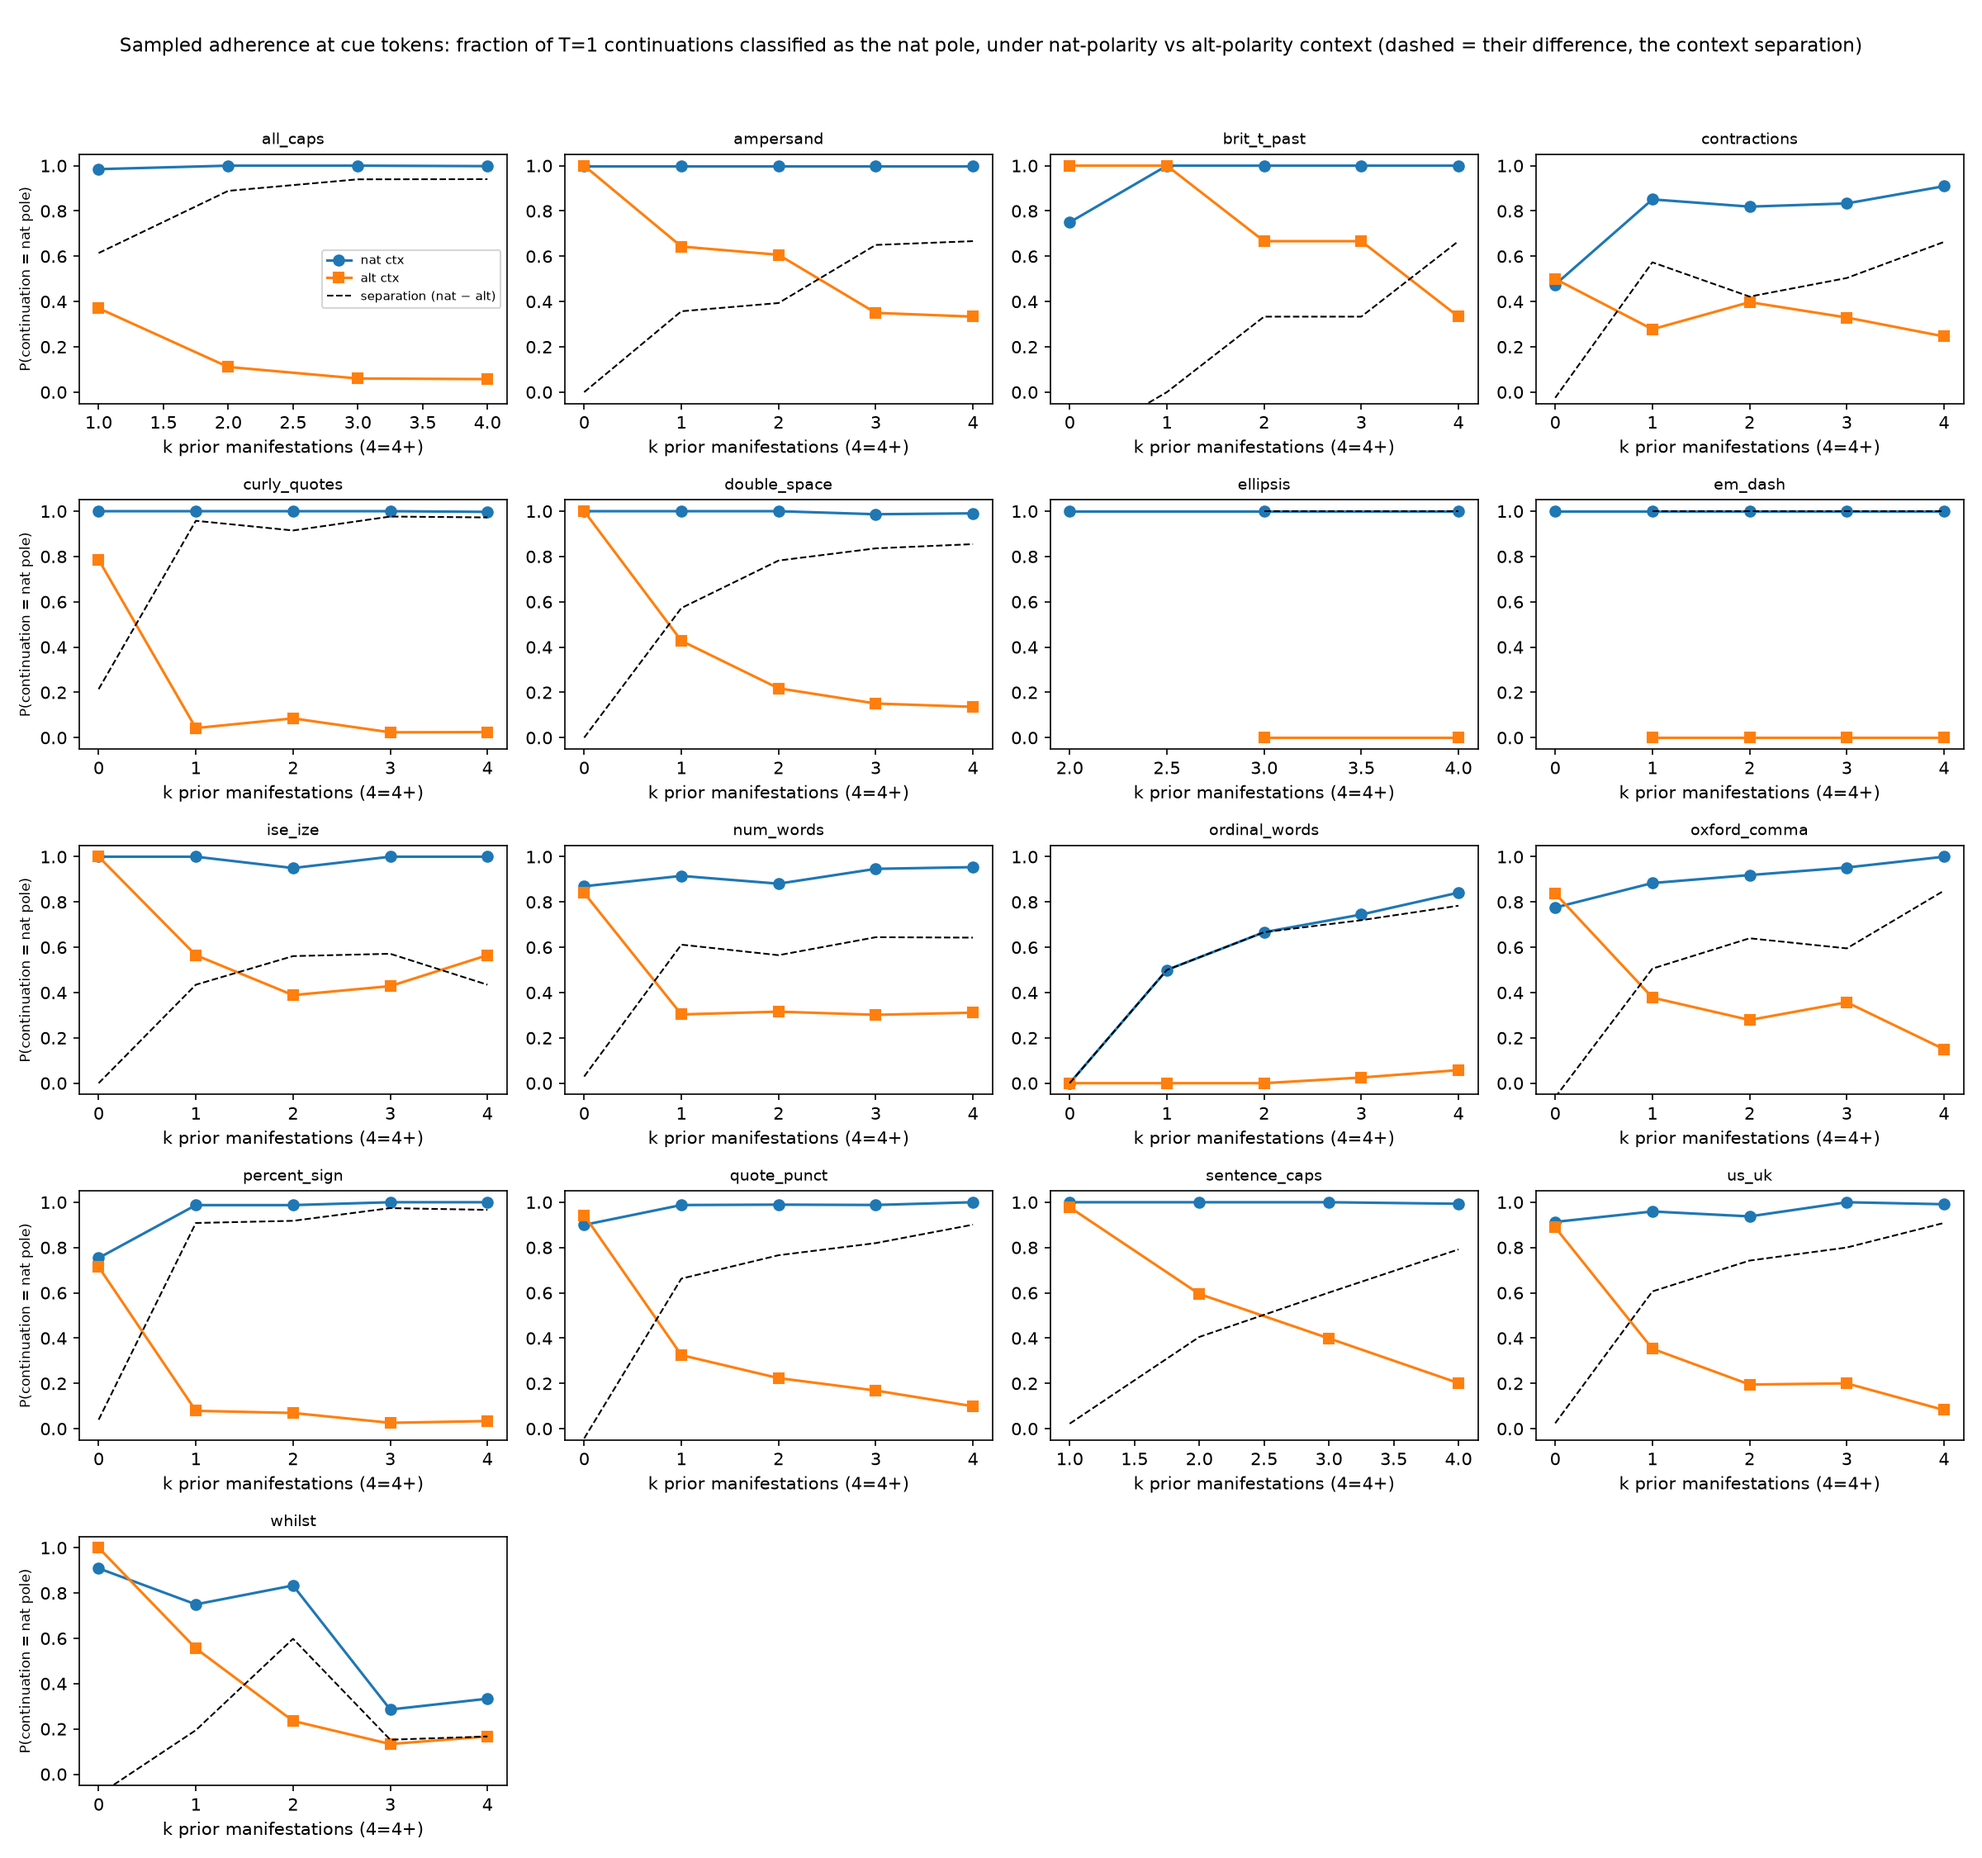
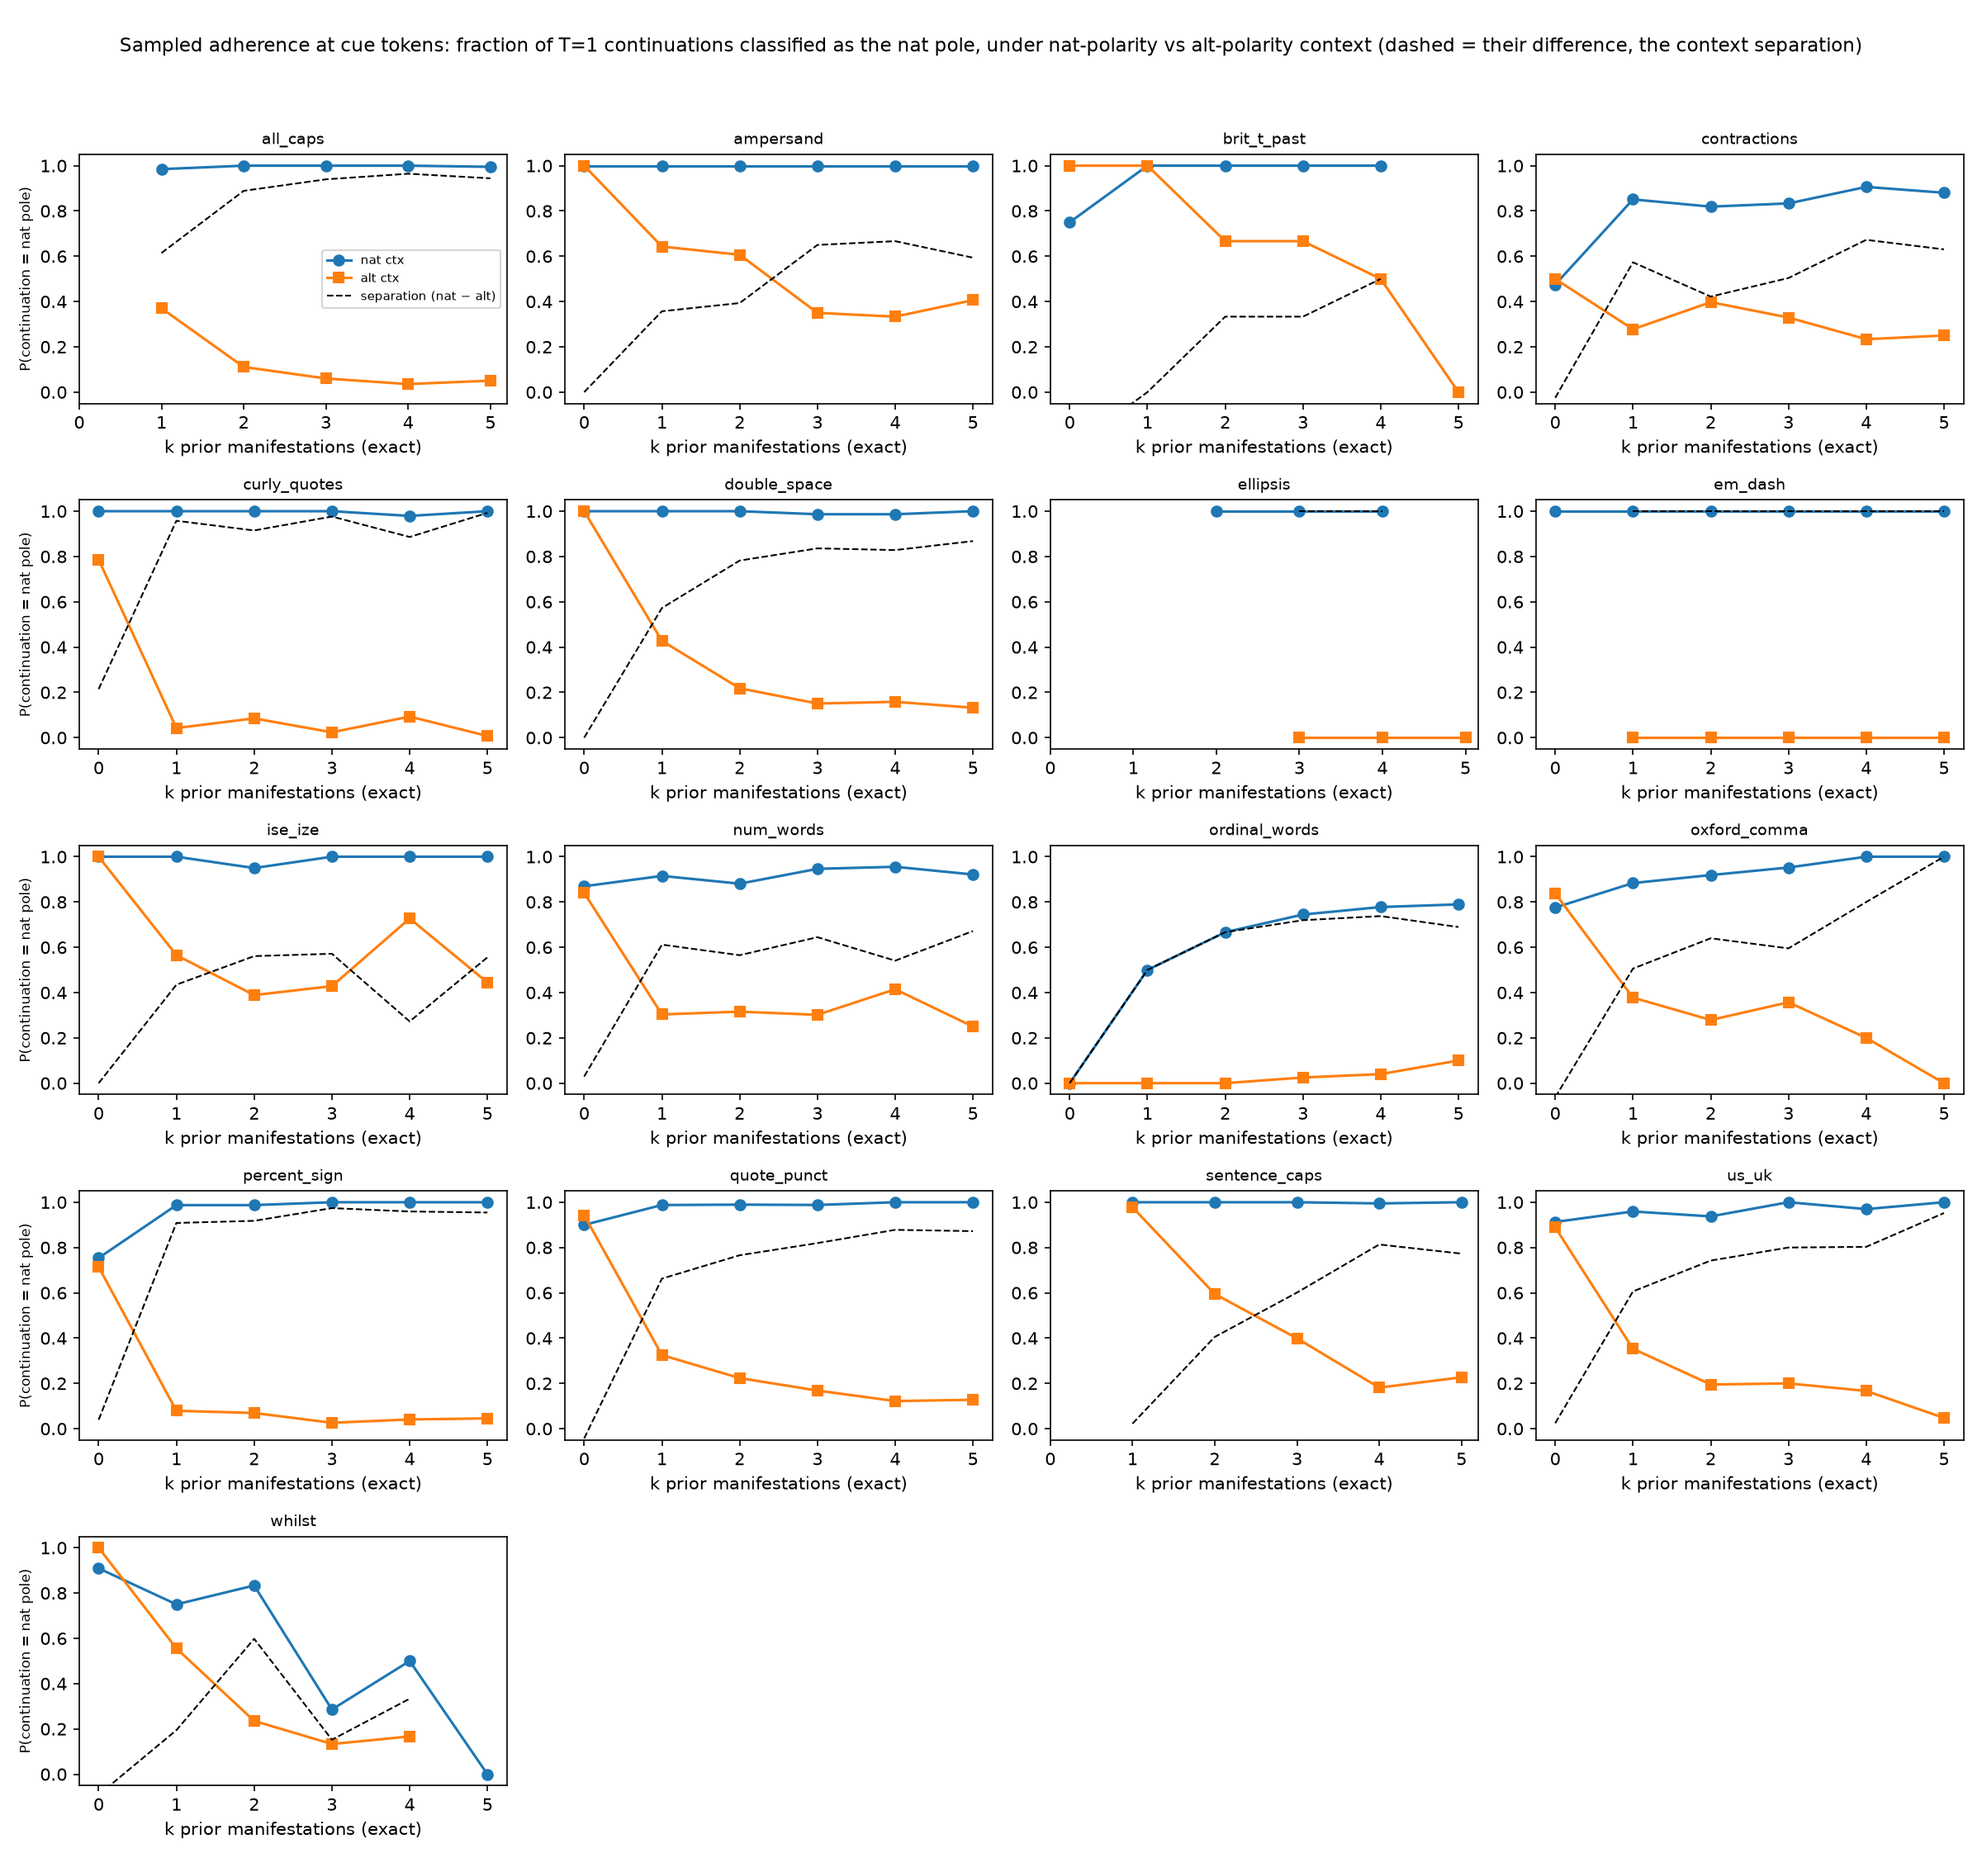
prescreen figures: exact k bins 0-5 (k>=6 not shown) for adherence/accuracy plots; gate keeps pooled k>=4 definition

diff --git a/src/sandbox/ext_styleprops/plot_prescreen.py b/src/sandbox/ext_styleprops/plot_prescreen.py
@@ -31,7 +31,9 @@ from src.utils.paths import ARTIFACTS_ROOT, REPO_ROOT, STYLE_PROPERTIES_DIR
 
 IN_DIR = ARTIFACTS_ROOT / "style_properties" / "prescreen"
 OUT_DIR = STYLE_PROPERTIES_DIR / "behavioral_prescreen"
-K_BINS = [0, 1, 2, 3, 4]          # last bin = k>=4
+K_BINS = [0, 1, 2, 3, 4]          # GATE bins: last bin = k>=4 (pool membership uses these)
+PLOT_BINS = [0, 1, 2, 3, 4, 5]    # PLOT bins: exact k, sites with k>=6 not shown (user
+                                  # decision 2026-09-02); k=0 = identical-prompt control
 
 # Manual prunes (user decisions) applied on top of the numeric gate. The pool file
 # records the reason so a regenerate can never silently re-admit them.
@@ -115,13 +117,25 @@ def main():
         s_curve = [a - b if not (np.isnan(a) or np.isnan(b)) else np.nan
                    for a, b in zip(curves["nat"][1], curves["alt"][1])]
 
+        # plotting curves: exact k over PLOT_BINS (the gate above keeps its pooled bins)
+        pcurves = {}
+        for pol in ("nat", "alt"):
+            ys = []
+            for kb in PLOT_BINS:
+                sub = [r for r in recs if r["pol"] == pol and r["k"] == kb]
+                ys.append(rate_nat(sub)[0])
+            pcurves[pol] = ys
+        ps_curve = [a - b if not (np.isnan(a) or np.isnan(b)) else np.nan
+                    for a, b in zip(pcurves["nat"], pcurves["alt"])]
+
         a = ax1[pi // ncol][pi % ncol]
-        a.plot(K_BINS, curves["nat"][1], "o-", label="nat ctx")
-        a.plot(K_BINS, curves["alt"][1], "s-", label="alt ctx")
-        a.plot(K_BINS, s_curve, "k--", lw=1, label="separation (nat − alt)")
+        a.plot(PLOT_BINS, pcurves["nat"], "o-", label="nat ctx")
+        a.plot(PLOT_BINS, pcurves["alt"], "s-", label="alt ctx")
+        a.plot(PLOT_BINS, ps_curve, "k--", lw=1, label="separation (nat − alt)")
         a.set_title(name, fontsize=9)
         a.set_ylim(-0.05, 1.05)
-        a.set_xlabel("k prior manifestations (4=4+)")
+        a.set_xticks(PLOT_BINS)
+        a.set_xlabel("k prior manifestations (exact)")
         if pi % ncol == 0:
             a.set_ylabel("P(continuation = nat pole)", fontsize=8)
         if pi == 0:
@@ -133,20 +147,21 @@ def main():
         for pol, mk, col, lab in (("nat", "o", "#1f77b4", "nat-convention doc"),
                                   ("alt", "s", "#ff7f0e", "alt-convention doc")):
             ys, ms = [], []
-            for kb in K_BINS:
-                sub = [r for r in recs if r["pol"] == pol and kbin(r["k"]) == kb]
+            for kb in PLOT_BINS:
+                sub = [r for r in recs if r["pol"] == pol and r["k"] == kb]
                 v, m = rate_ctx(sub)
                 ys.append(v)
                 ms.append(m)
-            a.plot(K_BINS, ys, "-", color=col, alpha=0.8, label=lab)
+            a.plot(PLOT_BINS, ys, "-", color=col, alpha=0.8, label=lab)
             solid = [i for i in range(len(ys)) if ms[i] >= 20]
             thin = [i for i in range(len(ys)) if 0 < ms[i] < 20]
-            a.plot([K_BINS[i] for i in solid], [ys[i] for i in solid], mk, color=col)
-            a.plot([K_BINS[i] for i in thin], [ys[i] for i in thin], mk, color=col,
+            a.plot([PLOT_BINS[i] for i in solid], [ys[i] for i in solid], mk, color=col)
+            a.plot([PLOT_BINS[i] for i in thin], [ys[i] for i in thin], mk, color=col,
                    mfc="none")
         a.set_title(name, fontsize=9)
         a.set_ylim(-0.05, 1.05)
-        a.set_xlabel("k prior manifestations (4=4+)")
+        a.set_xticks(PLOT_BINS)
+        a.set_xlabel("k prior manifestations (exact)")
         if pos3[name][1] == 0:
             a.set_ylabel("P(continuation follows ctx polarity)", fontsize=8)
         if pi == 0:
